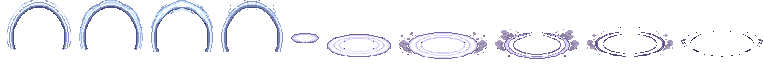
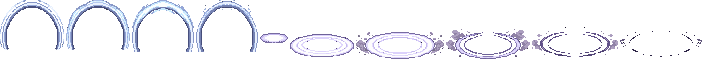
Warwick: the guard shell on the big sheet; his own effects centred on his standing point (the red side)

diff --git a/tools/art/import_warwick_fx.py b/tools/art/import_warwick_fx.py
@@ -8,7 +8,7 @@ The source is the step-3 delivery (assets/source/warwick/codex_fx/warwick_fx: Ge
 game's size by tools/art/process_warwick_fx.py - pixel_1x/warwick_fx_<name>.png, one row of equal frames each at game size, frame sizes in manifest.json's entries (cell_1x); alpha 0 / 255; every picture
 symmetric left to right - checked again here). Each frame is cut by the manifest's frame size and placed as the kit
 plays it (import_zoe_fx.py's way): spots are game px from the pivot (x forward, y down); a unit's soles are 11 under it,
-a point's ground too. Warwick's own pictures sit a little ahead of his standing point (his hunched body is: HIM_X).
+a point's ground too. Warwick's own pictures are centred on his standing point (HIM_X: symmetric for the red side).
 Times from the kit (build_warwick.P, 60 ticks a second).
 """
 import argparse
@@ -43,8 +43,11 @@ BIG = {"e_howl", "e_guard"}
 HIT = (0, -14)                  # a hit on the upper body of a 32-46 px unit
 SOLES = (0, 11)                 # on the ground under a unit or a point
 OVERHEAD = (0, -29)             # over a 36-px unit's head
-HIM_X = 4                       # his hunched body's middle, game px ahead of his standing point (design column 58 of 94)
-HIS_HEAD = (6, -28)             # over his own head (his ear tips 39 px over his soles, the face 6 px ahead)
+# his own pictures are centred on his standing point, not on his hunched body 4 px ahead of it nor his head 6 px ahead:
+# the client never mirrors an effect picture, so one set off his pivot would sit on the wrong side of him facing left
+# (the red side; lint_mod.py's "front and a back" check)
+HIM_X = 0
+HIS_HEAD = (0, -28)             # over his own head (his ear tips 39 px over his soles)
 seq = J.seq
 MS = 1000 / 60
 

diff --git a/tools/kit/build_warwick.py b/tools/kit/build_warwick.py
@@ -254,7 +254,7 @@ def build(p, native=False):
     views_e = [E("a_hit"), E("q_hit"), E("q_heal"), E("e_howl", BIG, -1), E("e_roar", FX, 3), E("e_fear", FX, 3),
                E("r_bind"), E("r_hit")]
     views_p = []
-    views_b = [{"type": "Animated", "name": n("e_on"), "anim": FX, "tag": "e_guard", "repeat": True, "z": 2},
+    views_b = [{"type": "Animated", "name": n("e_on"), "anim": BIG, "tag": "e_guard", "repeat": True, "z": 2},
                {"type": "Animated", "name": n("w_hunt"), "anim": FX, "tag": "w_hunt", "repeat": True, "z": -1}]
     kit = {
         "id": ID, "category": "Melee", "tags": ["AD", "Melee", "Heal", "CC"],
